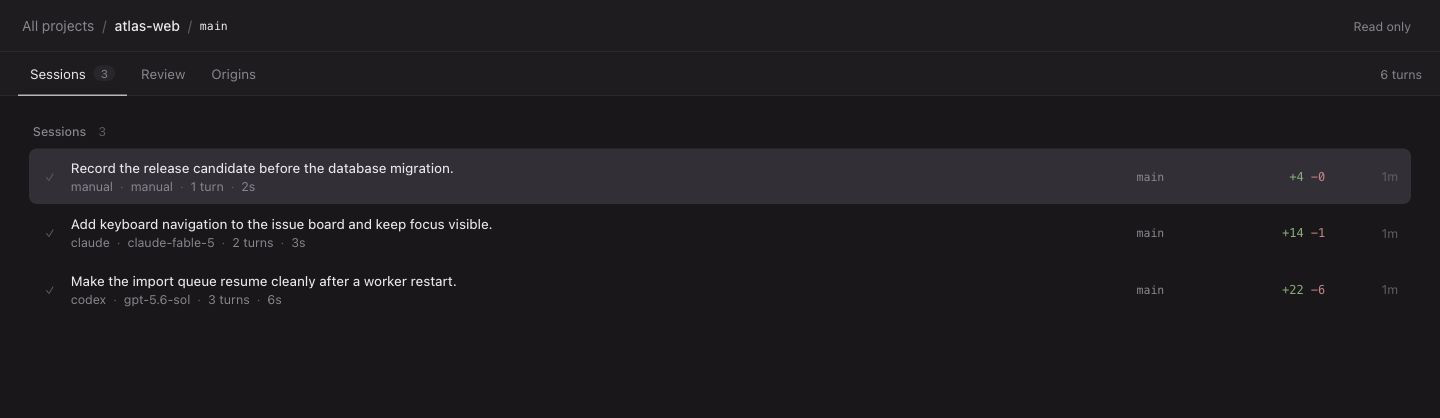
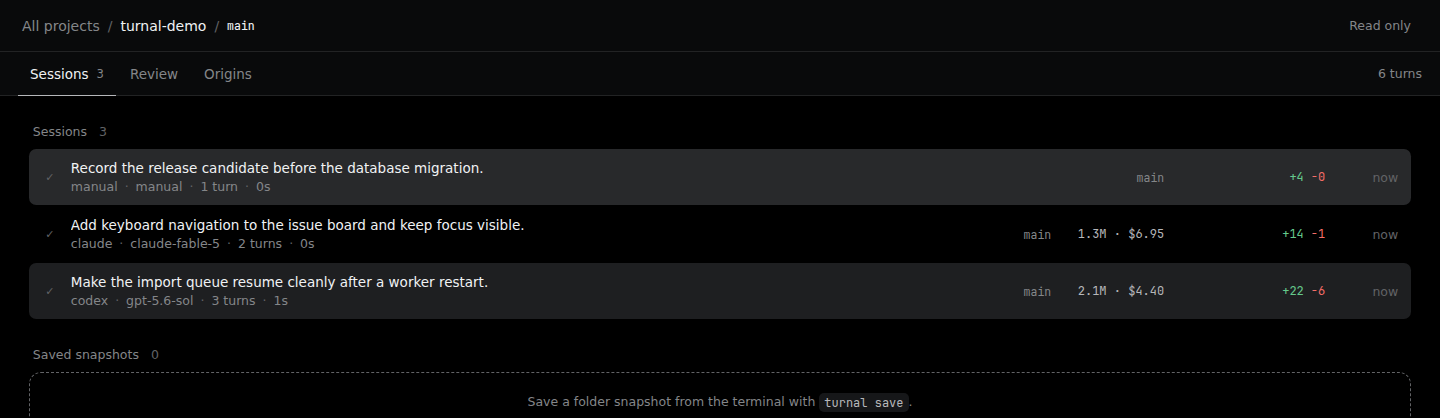
fix(viewer): preserve theme colors and fit narrow dialogs
Provide sRGB defaults before the OKLCH palette and refresh the documentation screenshot. Let nested dialog grids shrink so locally installed JetBrains Mono does not clip fields at narrow widths.

diff --git a/internal/viewer/web/dist/assets/app-BdHcSN_u.css b/internal/viewer/web/dist/assets/app-BdHcSN_u.css
@@ -1,0 +1,1 @@
+:root{color-scheme:dark;--bg: #000000;--rail: #090a0b;--sidebar: #0c0d0f;--surface: #0e0f11;--surface-raised: #161719;--surface-hover: #1e1f21;--surface-selected: #28292b;--line: #2f3032a8;--line-strong: #626365;--text: #f0f2f4;--text-soft: #b6b7ba;--muted: #848689;--quiet: #626365;--accent: #7a9ff2;--focus: #f8f8fa;--rec: #f66d67;--plus: #65c98c;--plus-bg: #65c98c1f;--minus: #f66d67;--minus-bg: #f66d671f;--warning: #e1b34d;--purple: #b298e3;--blue: #7a9ff2;--radius: .75rem;--radius-control: .5rem;--radius-row: .45rem;--shadow-raised: 0 0 0 1px #00000080,0 18px 50px -26px #000000db;--ease-out: cubic-bezier(.32, .72, 0, 1);--row: 28px;--gutter: 108px;--chrome-h: 52px;--tabs-h: 44px;--stick: 96px;--sans: "Manrope", ui-sans-serif, system-ui, -apple-system, "Segoe UI", sans-serif;--mono: "JetBrains Mono", ui-monospace, "SFMono-Regular", "Cascadia Code", Consolas, monospace;font-family:var(--sans);text-rendering:optimizeLegibility;font-synthesis:none}@supports (color: oklch(.5 0 0)){:root{--rail: oklch(.145 .003 260);--sidebar: oklch(.16 .004 260);--surface: oklch(.17 .004 260);--surface-raised: oklch(.205 .004 260);--surface-hover: oklch(.24 .004 260);--surface-selected: oklch(.28 .004 260);--line: oklch(.31 .004 260 / .66);--line-strong: oklch(.5 .004 260);--text: oklch(.96 .003 260);--text-soft: oklch(.78 .004 260);--muted: oklch(.62 .005 260);--quiet: oklch(.5 .004 260);--accent: oklch(.71 .129 265);--focus: oklch(.98 .002 260);--rec: oklch(.7 .17 25);--plus: oklch(.76 .13 155);--plus-bg: oklch(.76 .13 155 / .12);--minus: oklch(.7 .17 25);--minus-bg: oklch(.7 .17 25 / .12);--warning: oklch(.79 .13 85);--purple: oklch(.73 .11 300);--blue: oklch(.71 .129 265);--shadow-raised: 0 0 0 1px oklch(.03 .002 260 / .5), 0 18px 50px -26px oklch(.02 .002 260 / .86)}}*{box-sizing:border-box}html,body{margin:0;background:var(--bg);color:var(--text)}body{min-height:100dvh;font-size:13.5px;-webkit-font-smoothing:antialiased;-moz-osx-font-smoothing:grayscale}::selection{background:#e3e4e647;color:var(--text)}a{color:inherit;text-decoration:none}button{font:inherit;color:inherit;background:none;border:0;padding:0;cursor:pointer}button:focus-visible,a:focus-visible,[tabindex]:focus-visible{outline:2px solid var(--focus);outline-offset:2px}code,pre,kbd{font-family:var(--mono)}.chrome{display:flex;align-items:center;gap:14px;height:var(--chrome-h);padding:0 18px;background:var(--rail);border-bottom:1px solid var(--line);position:sticky;top:0;z-index:20}.crumbs{display:flex;align-items:center;gap:8px;color:var(--muted);min-width:0;overflow:hidden;white-space:nowrap;font-size:14px;padding-left:4px}.crumbs a:hover{color:var(--text)}.crumbs b{color:var(--text);font-weight:500}.crumbs i{color:var(--quiet);font-style:normal}.chrome-right{margin-left:auto;display:flex;align-items:center;gap:8px}.chip{display:inline-flex;align-items:center;gap:7px;height:28px;padding:0 11px;border-radius:var(--radius-control);color:var(--muted);font-size:12.5px}.chip.good{color:var(--text-soft)}.chip .dot{width:6px;height:6px;border-radius:50%;background:var(--rec);flex:none}kbd{font-family:var(--sans);font-size:11.5px;color:var(--quiet);border:1px solid var(--line);border-radius:6px;padding:1px 5px}.tabs{display:flex;align-items:stretch;gap:2px;padding:0 18px;height:var(--tabs-h);background:var(--rail);border-bottom:1px solid var(--line);position:sticky;top:var(--chrome-h);z-index:19}.tabs a{display:flex;align-items:center;gap:8px;padding:0 12px;color:var(--muted);border-bottom:1.5px solid transparent;margin-bottom:-1px;font-size:13.5px}.tabs a:hover{color:var(--text)}.tabs .on{color:var(--text);border-bottom-color:var(--text-soft)}.tabs .count{font-size:11.5px;color:var(--muted)}.tabs-right{margin-left:auto;display:flex;align-items:center;gap:14px;color:var(--muted);font-size:12.5px}.page{padding:24px clamp(16px,2vw,40px) 80px;width:100%}.sec{display:flex;align-items:center;gap:12px;padding:28px 4px 10px}.sec:first-child{padding-top:4px}.sec h2{font-size:12.5px;font-weight:500;color:var(--muted);margin:0}.sec .n{color:var(--quiet);font-size:12.5px}.sec .sp{flex:1}.ghost{height:28px;padding:0 11px;border-radius:var(--radius-control);color:var(--muted);font-size:12.5px}.ghost:hover{background:var(--surface-hover);color:var(--text)}.ghost.on{background:var(--surface-selected);color:var(--text)}.primary{height:28px;padding:0 13px;border-radius:var(--radius-control);background:var(--accent);color:#020202;font-size:12.5px;font-weight:600;white-space:nowrap;transition:opacity .14s var(--ease-out)}.primary:hover:not(:disabled){opacity:.85}.rows{display:flex;flex-direction:column;gap:1px}.rows>a,.rows>.activity-row{display:flex;align-items:center;gap:13px;padding:11px 13px;border-radius:var(--radius-row)}.activity-row[aria-disabled=true]{cursor:not-allowed}.project-row{display:flex;align-items:center;border-radius:var(--radius-row)}.project-row:hover{background:var(--surface-hover)}.project-link{display:flex;align-items:center;gap:13px;min-width:0;flex:1;padding:11px 13px}.project-link[aria-disabled=true]{cursor:not-allowed}.project-row>.ghost{flex:none;margin-right:13px}.rows>a:hover{background:var(--surface-hover)}.rows>a.on{background:var(--surface-selected)}.save-rows{display:flex;flex-direction:column;gap:1px}.save-row{display:flex;align-items:center;gap:13px;padding:11px 13px;border-radius:var(--radius-row)}.usage-metrics{display:grid;grid-template-columns:repeat(4,minmax(140px,1fr));border-block:1px solid var(--line)}.usage-metrics>div{display:flex;flex-direction:column;gap:5px;padding:17px 13px;border-right:1px solid var(--line)}.usage-metrics>div:last-child{border-right:0}.usage-metrics span,.usage-value span{color:var(--muted);font-size:11.5px}.usage-metrics strong{font-family:var(--mono);font-size:20px;font-weight:500}.usage-value{display:flex;min-width:92px;flex-direction:column;align-items:flex-end;gap:2px;font-family:var(--mono)}.usage-value.cost{min-width:78px}.usage-inline{min-width:100px;color:var(--text-soft);font-family:var(--mono);font-size:12px;text-align:right}@media(max-width:720px){.usage-metrics{grid-template-columns:repeat(2,1fr)}.usage-metrics>div:nth-child(2){border-right:0}.usage-metrics>div:nth-child(-n+2){border-bottom:1px solid var(--line)}.usage-value.cost,.usage-inline{display:none}}.empty.compact{min-height:0;padding-block:18px}.avatar{width:26px;height:26px;border-radius:7px;flex:none;display:grid;place-items:center;font-size:10.5px;font-weight:500;color:var(--muted);background:var(--surface-raised)}.avatar.agent-avatar img{display:block;width:16px;height:16px}.status{width:16px;flex:none;display:grid;place-items:center;font-size:11px;color:var(--quiet)}.status.active{color:var(--rec)}.row-main{min-width:0;flex:1}.row-main strong{display:block;font-weight:450;font-size:13.5px;color:var(--text);white-space:nowrap;overflow:hidden;text-overflow:ellipsis}.row-main span{display:flex;align-items:center;gap:7px;color:var(--muted);font-size:12.5px;padding-top:3px;min-width:0}.row-main span i{font-style:normal;color:var(--quiet)}.row-main span em{font-style:normal;overflow:hidden;text-overflow:ellipsis;white-space:nowrap}.rows>a .state,.project-link .state{width:116px}.rows>a .tag.count-col,.project-link .tag.count-col{width:92px;text-align:right}.rows>a .delta,.project-link .delta{width:148px;text-align:right}.tag{color:var(--muted);font-size:12.5px;white-space:nowrap;flex:none}.tag.mono{font-family:var(--mono);font-size:11.5px}.tag.good{color:var(--plus)}.tag.box{border:1px solid var(--line);border-radius:6px;padding:1px 7px;font-size:11.5px}.when{color:var(--quiet);font-size:12.5px;white-space:nowrap;flex:none;min-width:60px;text-align:right}.delta{font-family:var(--mono);font-size:12px;white-space:nowrap;flex:none}.delta .p{color:var(--plus)}.delta .m{color:var(--minus);margin-left:7px}.bar{display:inline-flex;gap:2px;vertical-align:middle;margin-left:9px}.bar i{width:6px;height:8px;border-radius:1px;background:var(--line-strong)}.bar i.p{background:var(--plus)}.bar i.m{background:var(--minus)}@media(max-width:720px){.rows>a .state,.rows>a .tag.count-col,.rows>a .delta,.project-link .state,.project-link .tag.count-col,.project-link .delta{display:none}.chrome{padding-inline:12px}.chip,.tabs-right{display:none}.tabs{padding-inline:8px;overflow-x:auto}.tabs a{flex:none;padding-inline:10px}}.state{display:inline-flex;align-items:center;gap:6px;color:var(--muted);font-size:12.5px;flex:none}.state:before{content:"";width:6px;height:6px;border-radius:50%;background:var(--quiet)}.state.healthy:before{background:var(--plus)}.state.stale:before{background:var(--warning)}.state.missing:before{background:var(--minus)}.state.has-tooltip{position:relative;cursor:help}.state-tooltip{position:absolute;z-index:30;left:50%;bottom:calc(100% + 9px);width:270px;padding:9px 11px;border:1px solid var(--line-strong);border-radius:var(--radius-control);background:var(--bg);color:var(--text-soft);font-size:12px;line-height:1.55;text-align:left;white-space:normal;box-shadow:var(--shadow-raised);transform:translate(-50%);opacity:0;visibility:hidden;pointer-events:none}.state-tooltip code{color:var(--text);font-family:var(--mono);font-size:11.5px;font-weight:600}.state.has-tooltip:hover .state-tooltip{opacity:1;visibility:visible}.gone{opacity:.5}.gone .row-main strong{text-decoration:line-through}.doc{border:1px solid var(--line);border-radius:var(--radius);background:var(--surface);overflow:hidden}.doc-head{display:flex;align-items:center;gap:10px;padding:12px 16px;border-bottom:1px solid var(--line);color:var(--muted);font-size:12.5px}.doc-head b{color:var(--text);font-weight:500}.doc-head .sp{flex:1}.doc-body{padding:18px}.doc-body p{margin:0 0 12px;color:var(--text-soft);line-height:1.75;max-width:96ch}.doc-body p:last-child{margin-bottom:0}.doc-body code,.note code,.anno-body code{font-size:12px;color:var(--text);background:var(--surface-raised);border-radius:5px;padding:1.5px 5px}.surface{display:grid;gap:14px}.file{min-width:0;border:1px solid var(--line);border-radius:var(--radius);background:var(--surface)}.fhead{display:flex;align-items:center;gap:11px;padding:11px 15px;border-bottom:1px solid var(--line);position:sticky;top:var(--stick);background:var(--surface);z-index:6;border-radius:calc(var(--radius) - 1px) calc(var(--radius) - 1px) 0 0}.caret{color:var(--quiet);width:11px;flex:none;font-size:10px}.fhead .path{font-family:var(--mono);font-size:12.5px;min-width:0;overflow:hidden;text-overflow:ellipsis;white-space:nowrap}.fhead .path i{color:var(--muted);font-style:normal}.fhead .sp{flex:1}.code{font-family:var(--mono);font-size:12.5px;overflow-x:auto;border-radius:0 0 calc(var(--radius) - 1px) calc(var(--radius) - 1px)}.code:not(.wrap)>.ln,.code:not(.wrap)>.hunk{width:max(100%,var(--diff-row-width))}.hunk{display:grid;grid-template-columns:var(--gutter) 1fr auto;align-items:center;background:var(--sidebar);border-bottom:1px solid var(--line);min-height:34px}.hunk+.ln,.ln+.hunk{border-top:1px solid var(--line)}.hunk .expand{color:var(--quiet);height:100%;display:grid;place-items:center}.hunk .expand:hover{color:var(--text);background:var(--surface-hover)}.hunk .range{color:var(--muted);padding:4px 12px}.hunk .hmeta{display:flex;align-items:center;gap:7px;padding:4px 14px;font-family:var(--sans);font-size:12px;color:var(--quiet);white-space:nowrap}.hunk .hmeta b{color:var(--muted);font-weight:500}.ln{display:grid;align-items:baseline;min-height:var(--row);line-height:var(--row)}.stacked .ln{grid-template-columns:50px 50px 18px 1fr}.ln>.g{color:var(--quiet);text-align:right;padding-right:11px;font-variant-numeric:tabular-nums;user-select:none;font-size:12px}.ln>.g:hover{color:var(--text);cursor:pointer}.ln>.sign{text-align:center;color:var(--quiet);user-select:none}.ln>code{white-space:pre;padding:0 12px;color:var(--text-soft)}.code.wrap .ln{width:100%;align-items:start;line-height:1.65}.code.wrap .ln>.g,.code.wrap .ln>.sign{padding-top:4px}.code.wrap .ln>code{min-width:0;padding-block:4px;white-space:pre-wrap;overflow-wrap:anywhere}.ln.add{background:var(--plus-bg)}.ln.add>.sign{color:var(--plus)}.ln.del{background:var(--minus-bg)}.ln.del>.sign{color:var(--minus)}.ln.void{background:var(--sidebar)}.bars .ln.add>code{box-shadow:inset 2px 0 0 var(--plus)}.bars .ln.del>code{box-shadow:inset 2px 0 0 var(--minus)}.bars .ln>.sign,.plain .ln>.sign{display:none}.bars .ln>code,.plain .ln>code{grid-column:4}.bars.stacked .ln,.plain.stacked .ln{grid-template-columns:50px 50px 0 1fr}.code:not(.wrap).bars.stacked .ln,.code:not(.wrap).plain.stacked .ln{grid-template-columns:50px 50px 0 max-content}.plain .ln.add,.plain .ln.del{background:none}.k{color:var(--purple);font-style:normal}.t{color:var(--blue);font-style:normal}.s{color:var(--warning);font-style:normal}.c{color:var(--quiet);font-style:normal}.anno{border-top:1px solid var(--line);border-bottom:1px solid var(--line);background:var(--sidebar);padding:14px 16px 15px var(--gutter)}.anno:last-child{border-bottom:0}.anno-in{border:1px solid var(--line);border-radius:var(--radius-control);background:var(--surface);padding:13px 15px 14px;font-family:var(--sans)}.anno-head{display:flex;align-items:center;gap:9px;font-size:12.5px;color:var(--quiet)}.anno-head .who{display:inline-flex;align-items:center;gap:8px;color:var(--text);font-weight:500}.anno-head .sp{flex:1}.anno-body{padding-top:9px;color:var(--text-soft);line-height:1.75;max-width:96ch}.anno-body.hide{display:none}.event-list{display:grid;gap:7px;padding-top:10px}.event-row{border:1px solid var(--line);border-radius:var(--radius-control);background:var(--surface-raised);min-width:0}.event-row summary{display:flex;align-items:center;gap:9px;padding:8px 11px;color:var(--muted);font-size:12px;cursor:pointer;list-style:none}.event-row summary::-webkit-details-marker{display:none}.event-row summary:before{content:"▸";color:var(--muted)}.event-row[open] summary:before{content:"▾"}.event-row summary b{color:var(--text-soft);font-weight:500}.event-row summary .sp{flex:1}.event-kind{width:68px;color:var(--muted);font-family:var(--mono);text-transform:uppercase;font-size:10.5px}.event-row pre{margin:0;padding:10px 12px 12px 31px;border-top:1px solid var(--line);color:var(--text-soft);font-family:var(--mono);font-size:12px;line-height:1.6;white-space:pre-wrap;overflow-wrap:anywhere;max-height:32rem;overflow:auto}.event-error{border-color:color-mix(in srgb,var(--minus) 45%,var(--line))}.event-more{justify-content:flex-start;padding:10px 0 0}.anno-tool{margin-top:10px;border:1px solid var(--line);border-radius:var(--radius-control);background:var(--surface-raised);padding:9px 12px;font-family:var(--mono);font-size:12px;color:var(--muted);white-space:pre-wrap}.anno-tool b{color:var(--text-soft);font-weight:400}.anno-refs{margin-top:10px;display:flex;align-items:center;gap:8px;color:var(--quiet);font-size:12px;flex-wrap:wrap}.anno-refs code{font-size:11.5px;color:var(--text-soft)}.shell{display:grid;grid-template-columns:clamp(240px,18vw,340px) minmax(0,1fr);gap:16px;padding:20px clamp(16px,2vw,40px) 64px;align-items:start;width:100%}.tree{border:1px solid var(--line);border-radius:var(--radius);background:var(--surface);overflow:hidden;position:sticky;top:calc(var(--stick) + 16px)}.tree-tabs{display:flex;gap:2px;padding:8px;border-bottom:1px solid var(--line)}.tree-tabs button{flex:1;height:27px;border-radius:7px;font-size:12.5px;color:var(--muted)}.tree-tabs button:hover{background:var(--surface-hover);color:var(--text)}.tree-tabs button.on{background:var(--surface-selected);color:var(--text)}.tree-list{padding:4px 8px 10px}.tree-list a,.tree-list .dirrow{display:flex;align-items:center;gap:8px;padding:6px 9px;border-radius:var(--radius-row);color:var(--text-soft);font-size:12.5px;white-space:nowrap}.tree-list .dirrow{color:var(--muted)}.tree-list a:hover{background:var(--surface-hover);color:var(--text)}.tree-list a.on{background:var(--surface-selected);color:var(--text)}.tree-list span.nm{font-family:var(--mono);font-size:12px;overflow:hidden;text-overflow:ellipsis}.tree-list .sp{flex:1}.tree-list .d{font-family:var(--mono);font-size:11px;flex:none}.tree-list .d .p{color:var(--plus)}.tree-list .d .m{color:var(--minus);margin-left:5px}.pane{border:1px solid var(--line);border-radius:var(--radius);background:var(--surface);overflow:hidden;min-width:0}.pane-head{display:flex;align-items:center;gap:12px;padding:11px 15px;border-bottom:1px solid var(--line)}.pane-head .path{font-family:var(--mono);font-size:12.5px}.pane-head .path i{color:var(--muted);font-style:normal}.pane-head .sp{flex:1}.blk{display:grid;grid-template-columns:3px 296px 1fr;border-bottom:1px solid var(--line)}.blk:last-of-type{border-bottom:0}.age{background:var(--line)}.age.a1{background:#848689}.age.a2{background:#626365}.age.a3{background:#414244}.age.a4{background:#232426}.attrib{border-right:1px solid var(--line);background:var(--sidebar);padding:13px 15px 14px;min-width:0}.attrib .top{display:flex;align-items:center;gap:9px;font-size:12.5px;color:var(--quiet)}.attrib .top b{color:var(--text);font-weight:500}.attrib .why{color:var(--text-soft);padding-top:7px;line-height:1.65;font-size:12.5px;display:-webkit-box;-webkit-line-clamp:3;-webkit-box-orient:vertical;overflow:hidden}.attrib .foot{display:flex;align-items:center;gap:9px;padding-top:10px;flex-wrap:wrap}.blk.base .attrib .top b{color:var(--muted)}.blines{min-width:0;overflow-x:auto;font-family:var(--mono);font-size:12.5px}.bl{display:grid;grid-template-columns:54px 1fr;min-height:var(--row);line-height:var(--row)}.bl .g{appearance:none;border:0;border-radius:0;background:transparent;font:inherit;color:var(--quiet);text-align:right;padding-right:12px;user-select:none;font-variant-numeric:tabular-nums;font-size:12px}.bl .g:hover{color:var(--text);cursor:pointer}.bl code{white-space:pre;padding:0 12px;color:var(--text-soft)}.bl.sel{background:var(--surface-selected)}.bl.sel .g{color:var(--text)}.selbar{display:flex;align-items:center;gap:12px;padding:11px 15px;border-top:1px solid var(--line);color:var(--muted);font-size:12.5px}.selbar b{color:var(--text);font-family:var(--mono);font-weight:500}.selbar .sp{flex:1}.note{display:flex;gap:11px;border:1px solid var(--line);border-radius:var(--radius);background:var(--surface);padding:14px 16px;color:var(--muted);line-height:1.75;margin-top:14px;font-size:12.5px}.note>span:last-child{max-width:110ch;min-width:0;overflow-wrap:anywhere}.load-more{display:flex;align-items:center;justify-content:center;gap:12px;padding:18px;color:var(--muted);font-size:12px}.note b{color:var(--text-soft);font-weight:500}.note .badge{width:16px;height:16px;border-radius:50%;flex:none;display:grid;place-items:center;font-size:10px;color:var(--quiet);border:1px solid currentColor;margin-top:3px}.hub{max-width:820px;padding:56px 24px}.hub-top{display:flex;align-items:center;gap:11px;padding-bottom:10px}.hub h1{font-size:17px;font-weight:500;margin:0}.hub .lede{color:var(--muted);padding-bottom:26px;line-height:1.75}.session-shell{display:grid;grid-template-columns:clamp(260px,20vw,380px) minmax(0,1fr);align-items:start;width:100%}.turnlist{border-right:1px solid var(--line);position:sticky;top:var(--stick);height:calc(100dvh - var(--stick));overflow:auto;padding:12px 10px 24px;background:var(--sidebar)}.turnlist .sec{padding:12px 6px 8px}.turnlist .sec:first-child{padding-top:2px}.turnrow{display:flex;gap:10px;align-items:flex-start;padding:9px 10px;border-radius:var(--radius-row);color:var(--text-soft)}.turnrow:hover{background:var(--surface-hover)}.turnrow.on{background:var(--surface-selected);color:var(--text)}.turnrow .n{font-family:var(--mono);font-size:11px;color:var(--quiet);padding-top:2px;flex:none;width:18px}.turnrow .body{min-width:0;flex:1}.turnrow .body strong{display:block;font-weight:450;font-size:12.5px;line-height:1.5;display:-webkit-box;-webkit-line-clamp:2;-webkit-box-orient:vertical;overflow:hidden}.turnrow .body span{display:flex;align-items:center;gap:7px;padding-top:4px;color:var(--quiet);font-size:11.5px}.turnrow .body span .p{color:var(--plus);font-family:var(--mono)}.turnrow .body span .m{color:var(--minus);font-family:var(--mono)}.review{min-width:0;padding:20px clamp(16px,2vw,40px) 80px}.review>.anno{margin-top:14px}.scrim{position:relative;border-radius:var(--radius);background:#0202028c;padding:40px 20px;display:grid;place-items:start center;border:1px solid var(--line)}.dialog{width:100%;min-width:0;max-width:560px;border:1px solid var(--line-strong);border-radius:var(--radius);background:var(--surface);box-shadow:var(--shadow-raised);overflow:hidden}.dialog-head{padding:16px 18px 14px;border-bottom:1px solid var(--line)}.dialog-head strong{display:block;font-weight:500;font-size:14px}.dialog-head span{display:block;color:var(--muted);font-size:12.5px;padding-top:5px;line-height:1.6}.dialog-body{padding:16px 18px;display:grid;grid-template-columns:minmax(0,1fr);gap:16px;min-width:0}.field{display:grid;grid-template-columns:minmax(0,1fr);gap:7px}.field>label{color:var(--muted);font-size:12.5px}.input{display:flex;align-items:center;gap:9px;height:34px;padding:0 11px;border-radius:var(--radius-control);border:1px solid var(--line-strong);background:var(--bg);font-family:var(--mono);font-size:12.5px;color:var(--text)}.input .sp{flex:1}.input .browse{color:var(--text-soft);font-family:var(--sans);font-size:12px;flex:none;height:24px;padding:0 9px;margin-right:-5px;border-radius:6px;border:1px solid var(--line-strong);background:var(--surface-raised)}.input .browse:hover:not(:disabled){color:var(--text);background:var(--surface-hover)}.field-note{color:var(--warning);font-size:12px;line-height:1.55}.radios{display:grid;gap:6px}.radio{display:flex;gap:10px;align-items:flex-start;padding:10px 11px;border-radius:var(--radius-control);border:1px solid var(--line);cursor:pointer}.radio:hover{background:var(--surface-hover)}.radio.on{border-color:var(--line-strong);background:var(--surface-selected)}.radio .mk{width:14px;height:14px;border-radius:50%;border:1px solid var(--line-strong);flex:none;margin-top:2px;display:grid;place-items:center}.radio.on .mk{border-color:var(--accent)}.radio.on .mk:after{content:"";width:6px;height:6px;border-radius:50%;background:var(--accent)}.radio .body strong{display:block;font-weight:450;font-size:13px}.radio .body span{display:block;color:var(--muted);font-size:12px;padding-top:3px;line-height:1.55}.checks{display:grid;gap:9px}.check{display:flex;gap:10px;align-items:flex-start;cursor:pointer}.check .mk{width:15px;height:15px;border-radius:4px;border:1px solid var(--line-strong);flex:none;margin-top:2px;display:grid;place-items:center;font-size:10px;color:transparent}.check.on .mk{background:var(--accent);border-color:var(--accent);color:#020202}.check .body strong{display:block;font-weight:450;font-size:13px}.check .body span{display:block;color:var(--muted);font-size:12px;padding-top:3px;line-height:1.55}.willdo{border:1px solid var(--line);border-radius:var(--radius-control);background:var(--bg);padding:11px 12px;display:grid;gap:6px;min-width:0}.willdo .t{color:var(--muted);font-size:12px}.willdo .ln2{display:flex;gap:9px;align-items:baseline;font-family:var(--mono);font-size:12px;color:var(--text-soft);min-width:0;overflow-wrap:anywhere}.willdo .ln2 i{font-style:normal;color:var(--plus);flex:none;width:10px}.willdo .ln2.no i{color:var(--quiet)}.willdo .cli-command{color:var(--text-soft);font-family:var(--mono);font-size:12px;overflow-wrap:anywhere}.dialog-foot{display:flex;align-items:center;gap:9px;padding:13px 18px;border-top:1px solid var(--line)}.dialog-foot .sp{flex:1}.dialog-foot .hint{color:var(--quiet);font-size:12px;font-family:var(--mono)}.empty{display:grid;justify-items:center;text-align:center;gap:10px;padding:72px 24px;border:1px dashed var(--line-strong);border-radius:var(--radius)}.empty strong{font-weight:500;font-size:15px}.empty p{margin:0;color:var(--muted);max-width:62ch;line-height:1.75;font-size:12.5px}.empty .row2{display:flex;gap:9px;padding-top:6px}.empty code{color:var(--text-soft);background:var(--surface-raised);border-radius:5px;padding:2px 7px;font-size:12px}.radio input,.check input{position:absolute;width:1px;height:1px;opacity:0;pointer-events:none}.radio:focus-within,.check:focus-within{outline:1px solid var(--line-strong);outline-offset:2px;border-radius:var(--radius-control)}.input input{flex:1;min-width:0;border:0;background:none;color:var(--text);font:inherit;font-family:var(--mono);outline:none}.input input::placeholder{color:var(--quiet)}.field>span:first-child{color:var(--muted);font-size:12.5px}.scrim{position:fixed;inset:0;z-index:40;border:0;border-radius:0;background:#020202b8;padding:8vh 20px 20px;overflow:auto}button:disabled{opacity:.45;cursor:default}.empty p code{color:var(--text-soft);background:var(--surface-raised);border-radius:5px;padding:1.5px 5px;font-size:12px}@media(max-width:720px){.dialog-foot .hint{display:none}.dialog-foot button{white-space:nowrap}.session-shell,.shell{grid-template-columns:minmax(0,1fr)}.turnlist{position:static;height:auto;max-height:38dvh;border-right:0;border-bottom:1px solid var(--line)}.review{padding:16px 12px 64px}.shell{gap:12px;padding:12px 12px 64px}.tree{position:static;max-height:34dvh;overflow:auto}.pane-head{align-items:flex-start;flex-wrap:wrap}.pane-head .path{flex:1 1 100%;min-width:0;overflow-wrap:anywhere}.pane-head .sp{display:none}.blk{grid-template-columns:3px minmax(0,1fr)}.blk .age{grid-row:1 / span 2}.blk .attrib,.blk .blines{grid-column:2}.blk .attrib{border-right:0;border-bottom:1px solid var(--line)}}

diff --git a/internal/viewer/web/src/styles.css b/internal/viewer/web/src/styles.css
@@ -17,44 +17,43 @@
   /* Page canvas stays true black. It sits a hair under the source theme's
      --canvas-deep, and every surface above it comes from the same hue. */
   --bg: #000000;
-  --rail: oklch(0.145 0.003 260);
-  --sidebar: oklch(0.16 0.004 260);
-  --surface: oklch(0.17 0.004 260);
-  --surface-raised: oklch(0.205 0.004 260);
-  --surface-hover: oklch(0.24 0.004 260);
-  --surface-selected: oklch(0.28 0.004 260);
+  --rail: #090a0b;
+  --sidebar: #0c0d0f;
+  --surface: #0e0f11;
+  --surface-raised: #161719;
+  --surface-hover: #1e1f21;
+  --surface-selected: #28292b;
 
-  --line: oklch(0.31 0.004 260 / 0.66);
-  --line-strong: oklch(0.5 0.004 260);
+  --line: #2f3032a8;
+  --line-strong: #626365;
 
-  --text: oklch(0.96 0.003 260);
-  --text-soft: oklch(0.78 0.004 260);
-  --muted: oklch(0.62 0.005 260);
-  --quiet: oklch(0.5 0.004 260);
+  --text: #f0f2f4;
+  --text-soft: #b6b7ba;
+  --muted: #848689;
+  --quiet: #626365;
 
   /* Primary actions, selected marks, and the one link-colored affordance. */
-  --accent: oklch(0.71 0.129 265);
-  --focus: oklch(0.98 0.002 260);
+  --accent: #7a9ff2;
+  --focus: #f8f8fa;
 
   /* Still recording. Shares the danger hue rather than introducing a color the
      source palette does not have. */
-  --rec: oklch(0.7 0.17 25);
+  --rec: #f66d67;
 
-  --plus: oklch(0.76 0.13 155);
-  --plus-bg: oklch(0.76 0.13 155 / 0.12);
-  --minus: oklch(0.7 0.17 25);
-  --minus-bg: oklch(0.7 0.17 25 / 0.12);
-  --warning: oklch(0.79 0.13 85);
-  --purple: oklch(0.73 0.11 300);
-  --blue: oklch(0.71 0.129 265);
+  --plus: #65c98c;
+  --plus-bg: #65c98c1f;
+  --minus: #f66d67;
+  --minus-bg: #f66d671f;
+  --warning: #e1b34d;
+  --purple: #b298e3;
+  --blue: #7a9ff2;
 
   --radius: 0.75rem;
   --radius-control: 0.5rem;
   --radius-row: 0.45rem;
 
   --shadow-raised:
-    0 0 0 1px oklch(0.03 0.002 260 / 0.5),
-    0 18px 50px -26px oklch(0.02 0.002 260 / 0.86);
+    0 0 0 1px #00000080,0 18px 50px -26px #000000db;
   --ease-out: cubic-bezier(0.32, 0.72, 0, 1);
 
   --row: 28px;
@@ -74,6 +73,42 @@
   font-family: var(--sans);
   text-rendering: optimizeLegibility;
   font-synthesis: none;
+}
+
+/* Keep usable colors in browsers without OKLCH. Supported browsers use the original palette below. */
+
+@supports (color: oklch(0.5 0 0)) {
+  :root {
+    --rail: oklch(0.145 0.003 260);
+    --sidebar: oklch(0.16 0.004 260);
+    --surface: oklch(0.17 0.004 260);
+    --surface-raised: oklch(0.205 0.004 260);
+    --surface-hover: oklch(0.24 0.004 260);
+    --surface-selected: oklch(0.28 0.004 260);
+
+    --line: oklch(0.31 0.004 260 / 0.66);
+    --line-strong: oklch(0.5 0.004 260);
+
+    --text: oklch(0.96 0.003 260);
+    --text-soft: oklch(0.78 0.004 260);
+    --muted: oklch(0.62 0.005 260);
+    --quiet: oklch(0.5 0.004 260);
+    --accent: oklch(0.71 0.129 265);
+    --focus: oklch(0.98 0.002 260);
+    --rec: oklch(0.7 0.17 25);
+
+    --plus: oklch(0.76 0.13 155);
+    --plus-bg: oklch(0.76 0.13 155 / 0.12);
+    --minus: oklch(0.7 0.17 25);
+    --minus-bg: oklch(0.7 0.17 25 / 0.12);
+    --warning: oklch(0.79 0.13 85);
+    --purple: oklch(0.73 0.11 300);
+    --blue: oklch(0.71 0.129 265);
+
+    --shadow-raised:
+      0 0 0 1px oklch(0.03 0.002 260 / 0.5),
+      0 18px 50px -26px oklch(0.02 0.002 260 / 0.86);
+  }
 }
 
 * {
@@ -504,7 +539,7 @@ kbd {
   color: var(--quiet);
 }
 
-/* Live work is the only thing that gets the recording color. */
+/* Live work uses the recording token. */
 .status.active {
   color: var(--rec);
 }
@@ -1702,12 +1737,14 @@ kbd {
 .dialog-body {
   padding: 16px 18px;
   display: grid;
+  grid-template-columns: minmax(0, 1fr);
   gap: 16px;
   min-width: 0;
 }
 
 .field {
   display: grid;
+  grid-template-columns: minmax(0, 1fr);
   gap: 7px;
 }
 

diff --git a/internal/viewer/web/dist/index.html b/internal/viewer/web/dist/index.html
@@ -12,7 +12,7 @@
     <link rel="icon" href="/__TURNAL_BASE__/logo.svg" type="image/svg+xml" />
     <title>Turnal Prism</title>
     <script type="module" crossorigin src="/__TURNAL_BASE__/assets/app-MWj06uMx.js"></script>
-    <link rel="stylesheet" crossorigin href="/__TURNAL_BASE__/assets/app-Ctq3gE96.css">
+    <link rel="stylesheet" crossorigin href="/__TURNAL_BASE__/assets/app-BdHcSN_u.css">
   </head>
   <body>
     <div id="app"></div>
